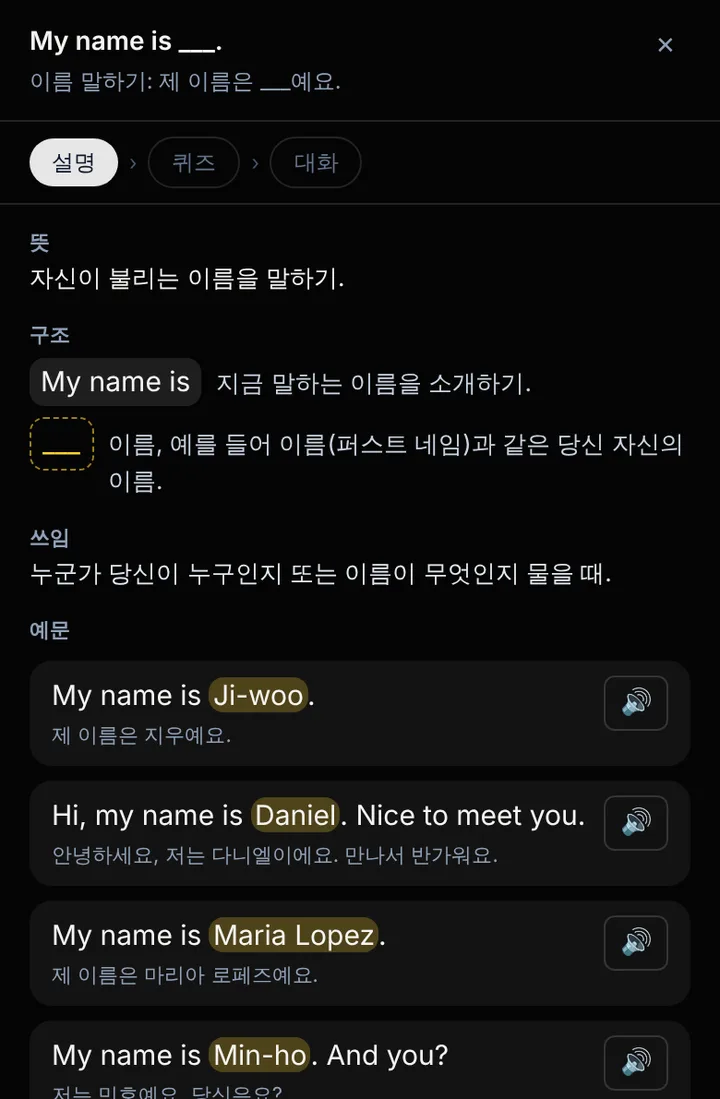
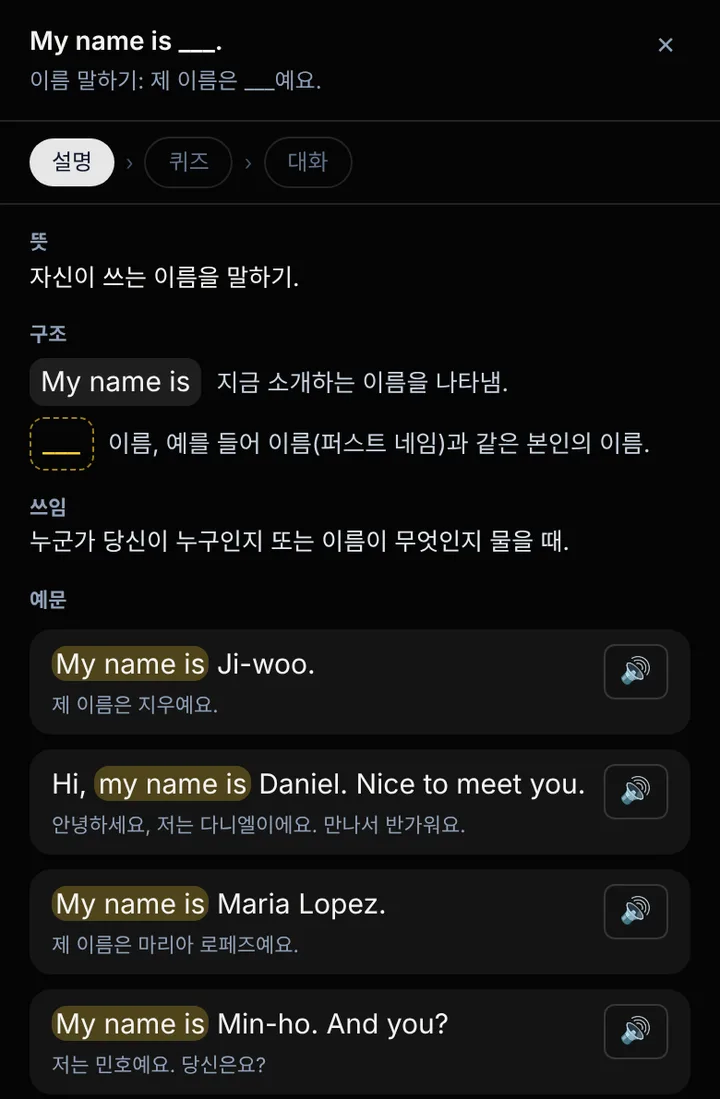
My 설명 그림: 바뀐 Stagebank 화면으로 다시 찍기(한국어 먼저, 나머지 언어는 이어서)
Claude-Session: https://claude.ai/code/session_01R73CvMFFAjV76n6EkBFzHG

diff --git a/hub/log/2026-11.md b/hub/log/2026-11.md
@@ -834,3 +834,9 @@
 - 확인: 브라우저 en/ko·ja/ko·es/ar(3단계) — 오늘 할 것 첫 문장구조를 열고 ✕ → 아래 줄 "다음 추천 · 다음 문장구조" → 누르면 그 수업이 열림(`tmp/verify/2026-11-02/upnext-*.png`), 아랍어는 "التالي"·RTL. **끝 화면 버튼은 화면으로 못 봄**(수업을 끝까지 맞혀야 해서 — 단위 테스트 `upNext.test.ts`만). 테스트 사용자 simcheck-upnext- 지움.
 - 학습 점검: 학습 내용·문제는 안 바뀜(이동만).
 - 구조: STRUCTURE 위쪽 오늘 할 것 아래 "다음 추천" 줄, 새 파일 studyMap/UpNext(영역 my — 폴더 자리표), 자동 부분 다시 만듦
+
+## 2026-11-02 · dev(탭 2 My) · My 설명 그림 다시 찍음(14개 언어)
+- 사용자 "My 탭의 설명 스크린샷을 바뀐 내용대로 교체" → My 사용법 장·칸 ? 설명이 쓰는 그림 8장(bank-stage-today·lesson·ladder, bank-keep-quiz·answer·settings, bank-log-week·day)을 14개 언어로 다시(`public/guide/<언어>/bank-*.webp`, 서버 바로 — 앱은 그림을 받아 씀).
+- `scripts/capture-bank-guide.mjs` 지금 화면에 맞춤: Stagebank가 오늘 할 것 + 단계 화면 늘 펼침(옛 "n단계 ›"·"‹ 오늘 할 것" 없음) → 오늘 할 것 = 칸 머리~오늘 할 것까지, 단계 화면 = `[data-stage-view]`(사다리·연습 방식·☑ 이 단계 스킵·문장구조 목록), 위에 붙는 칸 이름 줄은 그 그림 동안 숨김, 다음 추천 줄은 거둠. `CHROMIUM`으로 브라우저 경로를 줄 수 있게.
+- 그대로: 연습 방식 고르기 그림 `stage-ways`(시트 화면이 안 바뀜), 칸 설명 영상 bank-stage·bank-keep(`guide-clips.mjs` — 옛 "n단계 ›" 장면이 들어 있음, 다시 찍을지 사용자 결정).
+- 구조: 변화 없음
